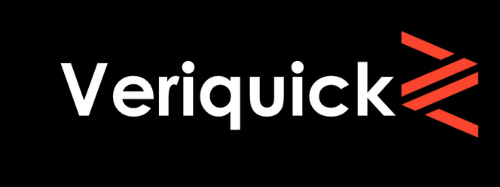
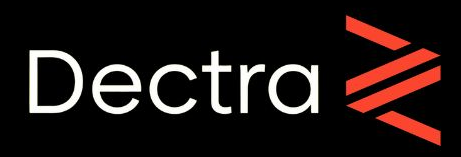
main

Changed region(s): [[0.0607, 0.3057, 0.9718, 0.9427], [0.7289, 0.0764, 0.9414, 0.3567]]

diff --git a/src/components/landing/testimonials.tsx b/src/components/landing/testimonials.tsx
@@ -10,7 +10,7 @@ const Testimonials = () => {
       name: "Sarah Chen",
       role: "Head of Compliance",
       company: "NorthRiver Bank",
-      content: "VeriQuick cut our document verification time from days to minutes. Audit logs, QR retrieval, and gov-backed checks make passing reviews painless.",
+      content: "Dectra cut our document verification time from days to minutes. Audit logs, QR retrieval, and gov-backed checks make passing reviews painless.",
       rating: 5,
       avatar: "/api/placeholder/40/40"
     },
@@ -34,7 +34,7 @@ const Testimonials = () => {
       name: "David Kim",
       role: "Indie Hacker",
       company: "Solo Founder",
-      content: "I plugged VeriQuick into my portal with minimal code. Token-based auth and auto-deletion keep me compliant out of the box.",
+      content: "I plugged Dectra into my portal with minimal code. Token-based auth and auto-deletion keep me compliant out of the box.",
       rating: 5,
       avatar: "/api/placeholder/40/40"
     },
@@ -50,7 +50,7 @@ const Testimonials = () => {
       name: "Alex Johnson",
       role: "Full Stack Developer",
       company: "FreelanceForce",
-      content: "Every client project asks for verification now. VeriQuick lets me ship QR flows, redirects, and audit logs without rewriting code.",
+      content: "Every client project asks for verification now. Dectra lets me ship QR flows, redirects, and audit logs without rewriting code.",
       rating: 5,
       avatar: "/api/placeholder/40/40"
     }
@@ -70,7 +70,7 @@ const Testimonials = () => {
             Trusted by teams who need documents to verify fast
           </h2>
           <p className="text-xl text-muted-foreground max-w-3xl mx-auto">
-            Banks, fintechs, and ops teams rely on VeriQuick for instant EDV, QR access, and auditable redirects.
+            Banks, fintechs, and ops teams rely on Dectra for instant EDV, QR access, and auditable redirects.
           </p>
         </motion.div>
 
@@ -155,7 +155,7 @@ const Testimonials = () => {
           <div className="bg-gradient-to-r from-primary/10 via-primary/5 to-primary/10 rounded-2xl p-8 border border-primary/20">
             <h3 className="text-2xl font-bold mb-4">Join the verified lane</h3>
             <p className="text-muted-foreground mb-6 max-w-2xl mx-auto">
-              Move verification from a backlog to a one-click flow. VeriQuick keeps every redirect, QR, and EDV check compliant and fast.
+              Move verification from a backlog to a one-click flow. Dectra keeps every redirect, QR, and EDV check compliant and fast.
             </p>
             <div className="flex flex-col sm:flex-row gap-4 justify-center">
               <motion.button

diff --git a/src/components/landing/features.tsx b/src/components/landing/features.tsx
@@ -50,7 +50,7 @@ const Features = () => {
     {
       icon: <Smartphone className="w-8 h-8" />,
       title: "Free to Use Anywhere",
-      description: "Access VeriQuick on laptops or phones to upload and verify with QR validation at no cost.",
+      description: "Access Dectra on laptops or phones to upload and verify with QR validation at no cost.",
       color: "text-indigo-500"
     },
     {
@@ -68,7 +68,7 @@ const Features = () => {
     {
       icon: <Puzzle className="w-8 h-8" />,
       title: "Custom API Support",
-      description: "Plug VeriQuick into your stack for bespoke workflows, verified databases, and automated redirection.",
+      description: "Plug Dectra into your stack for bespoke workflows, verified databases, and automated redirection.",
       color: "text-orange-500"
     }
   ]
@@ -88,7 +88,7 @@ const Features = () => {
             <div className="relative rounded-2xl overflow-hidden shadow-2xl bg-gradient-to-br from-primary/10 via-background to-secondary/10 p-2">
               <Image
                 src="/best saas kit.png"
-                alt="VeriQuick workspace showing instant document verification"
+                alt="Dectra workspace showing instant document verification"
                 width={1200}
                 height={800}
                 className="w-full h-auto rounded-xl"
@@ -163,7 +163,7 @@ const Features = () => {
           <div className="bg-gradient-to-r from-primary/10 via-primary/5 to-primary/10 rounded-2xl p-8 border border-primary/20">
             <h3 className="text-2xl font-bold mb-4">Ready for instant document verification?</h3>
             <p className="text-muted-foreground mb-6 max-w-2xl mx-auto">
-              Use VeriQuick to verify documents within seconds, generate QR access, and stream results into your existing data lakes.
+              Use Dectra to verify documents within seconds, generate QR access, and stream results into your existing data lakes.
             </p>
             <div className="flex flex-col sm:flex-row gap-4 justify-center">
               <motion.button
@@ -178,7 +178,7 @@ const Features = () => {
                 whileTap={{ scale: 0.95 }}
                 className="border border-border px-8 py-3 rounded-lg font-medium hover:bg-muted/50 transition-colors"
               >
-                See how VeriQuick works
+                See how Dectra works
               </motion.button>
             </div>
           </div>

diff --git a/src/components/landing/footer.tsx b/src/components/landing/footer.tsx
@@ -9,7 +9,7 @@ const Footer = () => {
     product: [
       { name: "Solutions", href: "#features" },
       { name: "Pricing", href: "#pricing" },
-      { name: "Why VeriQuick", href: "#testimonials" },
+      { name: "Why Dectra", href: "#testimonials" },
       { name: "Documentation", href: "/docs" },
       { name: "Roadmap", href: "/roadmap" }
     ],
@@ -37,10 +37,10 @@ const Footer = () => {
   }
 
   const socialLinks = [
-    { name: "GitHub", href: "https://github.com/VeriQuick", icon: Github },
+    { name: "GitHub", href: "https://github.com/Dectra", icon: Github },
     { name: "Twitter", href: "https://twitter.com", icon: Twitter },
-    { name: "LinkedIn", href: "https://linkedin.com/company/veriquick", icon: Linkedin },
-    { name: "Email", href: "mailto:hello@veriquick.com", icon: Mail }
+    { name: "LinkedIn", href: "https://linkedin.com/company/dectra", icon: Linkedin },
+    { name: "Email", href: "mailto:hello@dectra.com", icon: Mail }
   ]
 
   return (
@@ -53,12 +53,12 @@ const Footer = () => {
             <div className="flex items-center space-x-2 mb-4">
               <Image
                 src="/Logo.png"
-                alt="VeriQuick Logo"
+                alt="Dectra Logo"
                 width={32}
                 height={32}
                 className="w-8 h-8 rounded-lg"
               />
-              <span className="text-xl font-bold text-foreground">VeriQuick</span>
+              <span className="text-xl font-bold text-foreground">Dectra</span>
             </div>
             <p className="text-muted-foreground mb-6 max-w-sm">
               Instant document verification, QR access, and government-backed integrity. Manage, verify, and redirect documents from one secure workspace.
@@ -172,7 +172,7 @@ const Footer = () => {
         {/* Bottom Bar */}
         <div className="mt-12 pt-8 border-t border-border flex flex-col md:flex-row justify-between items-center">
           <div className="text-muted-foreground text-sm">
-            © 2026 VeriQuick. All rights reserved.
+            © 2026 Dectra. All rights reserved.
           </div>
           <div className="flex items-center space-x-6 mt-4 md:mt-0">
             <span className="text-muted-foreground text-sm">Built with ❤ from D</span>

diff --git a/src/app/layout.tsx b/src/app/layout.tsx
@@ -16,28 +16,28 @@ const geistMono = Geist_Mono({
 });
 
 export const metadata: Metadata = {
-  title: "VeriQuick - Instant Document Verification",
-  description: "Manage, verify, and redirect documents all at once with VeriQuick. Instant EDV validation, QR-based access, and secure redirects.",
+  title: "Dectra - Instant Document Verification",
+  description: "Manage, verify, and redirect documents all at once with Dectra. Instant EDV validation, QR-based access, and secure redirects.",
   keywords: ["Document Verification", "EDV", "QR Access", "Compliance", "Identity Verification", "SAAS"],
-  authors: [{ name: "VeriQuick Team" }],
-  creator: "VeriQuick",
-  publisher: "VeriQuick",
+  authors: [{ name: "Dectra Team" }],
+  creator: "Dectra",
+  publisher: "Dectra",
   icons: {
     icon: "/Logo.png",
   },
   openGraph: {
     type: "website",
     locale: "en_US",
-    url: "https://veriquick.com",
-    title: "VeriQuick - Instant Document Verification",
-    description: "Manage, verify, and redirect documents all at once with VeriQuick. Instant EDV validation, QR-based access, and secure redirects.",
-    siteName: "VeriQuick",
+    url: "https://dectra.com",
+    title: "Dectra - Instant Document Verification",
+    description: "Manage, verify, and redirect documents all at once with Dectra. Instant EDV validation, QR-based access, and secure redirects.",
+    siteName: "Dectra",
   },
   twitter: {
     card: "summary_large_image",
-    title: "VeriQuick - Instant Document Verification",
-    description: "Manage, verify, and redirect documents all at once with VeriQuick. Instant EDV validation, QR-based access, and secure redirects.",
-    creator: "@veriquick",
+    title: "Dectra - Instant Document Verification",
+    description: "Manage, verify, and redirect documents all at once with Dectra. Instant EDV validation, QR-based access, and secure redirects.",
+    creator: "@dectra",
   },
   robots: {
     index: true,

diff --git a/src/components/landing/pricing.tsx b/src/components/landing/pricing.tsx
@@ -61,7 +61,7 @@ const Pricing = ({ isAuthenticated = false }: PricingProps) => {
       popular: false,
       variant: "outline" as const,
       action: "contact" as const,
-      contactEmail: "support@veriquick.com"
+      contactEmail: "support@dectra.com"
     }
   ]
 
@@ -150,7 +150,7 @@ const Pricing = ({ isAuthenticated = false }: PricingProps) => {
           <h3 className="text-2xl font-bold text-center mb-12">Frequently Asked Questions</h3>
           <div className="grid grid-cols-1 md:grid-cols-2 gap-8 max-w-4xl mx-auto">
             <div className="space-y-4">
-              <h4 className="font-semibold">How fast can VeriQuick verify documents?</h4>
+              <h4 className="font-semibold">How fast can Dectra verify documents?</h4>
               <p className="text-muted-foreground text-sm">
                 Typical verifications complete in under a minute with EDV automation. Bulk uploads and redirects run continuously with audit-ready logs.
               </p>
@@ -164,7 +164,7 @@ const Pricing = ({ isAuthenticated = false }: PricingProps) => {
             <div className="space-y-4">
               <h4 className="font-semibold">Can I integrate with my data lakes?</h4>
               <p className="text-muted-foreground text-sm">
-                Absolutely. VeriQuick streams verified records to your databases or lakes and supports custom API pipelines for bespoke workflows.
+                Absolutely. Dectra streams verified records to your databases or lakes and supports custom API pipelines for bespoke workflows.
               </p>
             </div>
             <div className="space-y-4">

diff --git a/src/components/landing/navigation-client.tsx b/src/components/landing/navigation-client.tsx
@@ -27,7 +27,7 @@ export function NavigationClient({ session }: NavigationClientProps) {
   const navItems = [
     { name: "Solutions", href: "#features" },
     { name: "Pricing", href: "#pricing" },
-    { name: "Why VeriQuick", href: "#testimonials" },
+    { name: "Why Dectra", href: "#testimonials" },
     { name: "Docs", href: "/docs" },
     { name: "Contact", href: "/contact" },
   ]
@@ -40,12 +40,12 @@ export function NavigationClient({ session }: NavigationClientProps) {
           <Link href="/" className="flex items-center space-x-2">
             <Image
               src="/Logo.png"
-              alt="VeriQuick Logo"
+              alt="Dectra Logo"
               width={32}
               height={32}
               className="w-8 h-8 rounded-lg"
             />
-            <span className="text-xl font-bold">VeriQuick</span>
+            <span className="text-xl font-bold">Dectra</span>
           </Link>
 
           {/* Desktop Navigation */}

diff --git a/src/components/landing/hero.tsx b/src/components/landing/hero.tsx
@@ -54,7 +54,7 @@ const Hero = () => {
             transition={{ duration: 0.8, delay: 0.4 }}
             className="text-base sm:text-lg lg:text-xl text-white max-w-3xl mx-auto leading-relaxed px-4"
           >
-            Manage, verify, and redirect documents all at once with VeriQuick Supercharged with verefied databases and QR. 
+            Manage, verify, and redirect documents all at once with Dectra Supercharged with verefied databases and QR. 
           </motion.p>
 
           {/* CTA Buttons */}

diff --git a/src/components/landing/pricing-client.tsx b/src/components/landing/pricing-client.tsx
@@ -32,7 +32,7 @@ export function PricingClient({ plan, isAuthenticated }: PricingClientProps) {
     }
 
     if (action === 'contact') {
-      const email = plan.contactEmail || 'support@veriquick.com';
+      const email = plan.contactEmail || 'support@dectra.com';
       window.location.href = `mailto:${email}?subject=${encodeURIComponent(`${plan.name} Plan Inquiry`)}`;
       return;
     }
